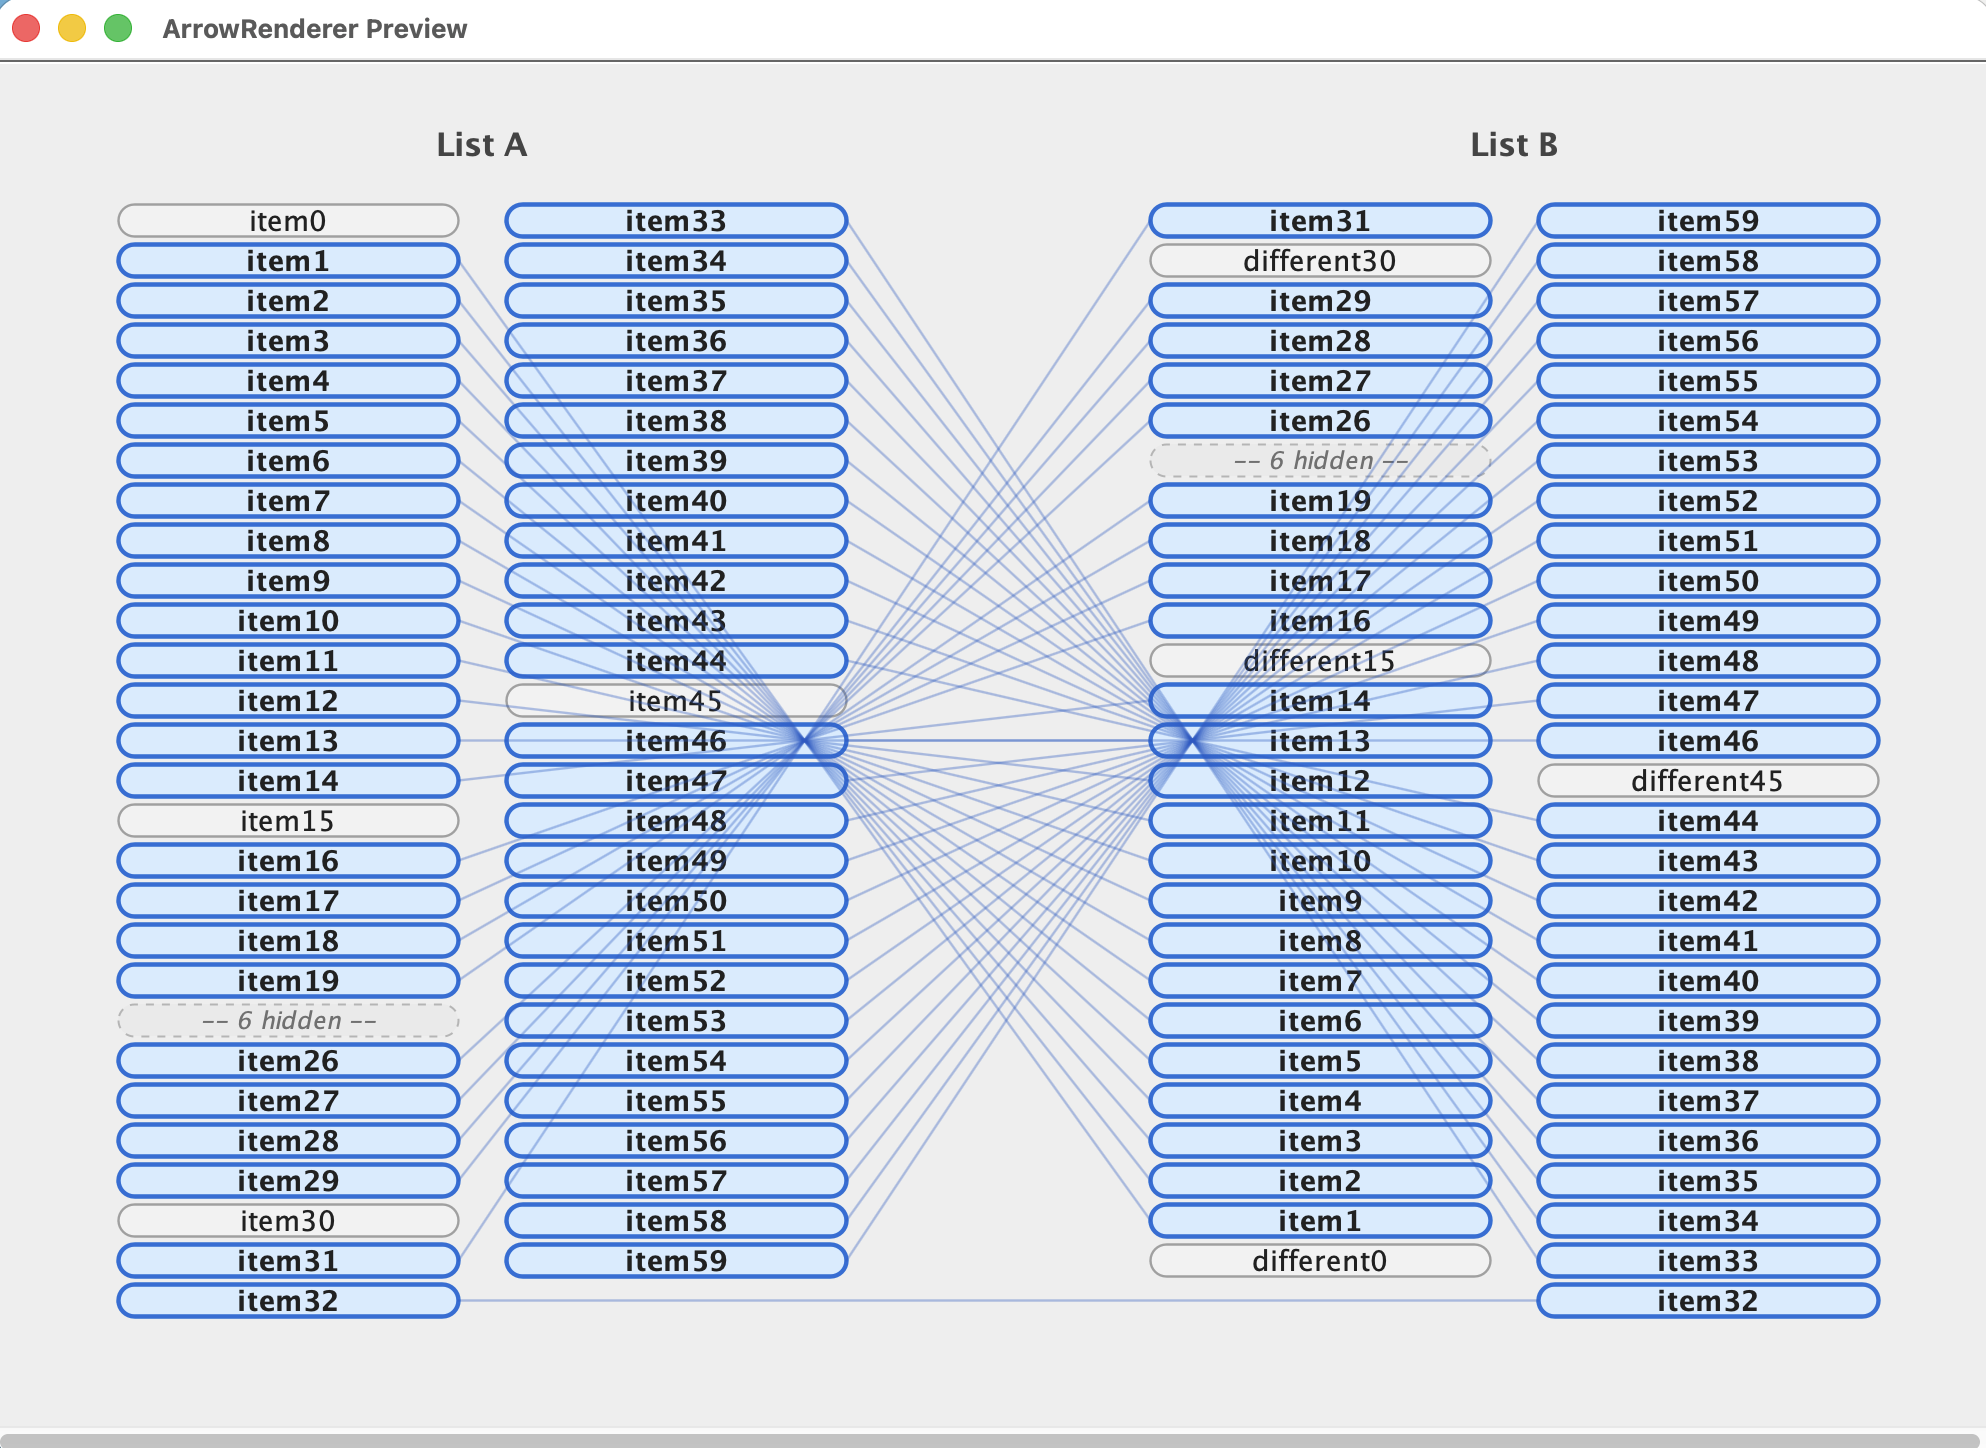
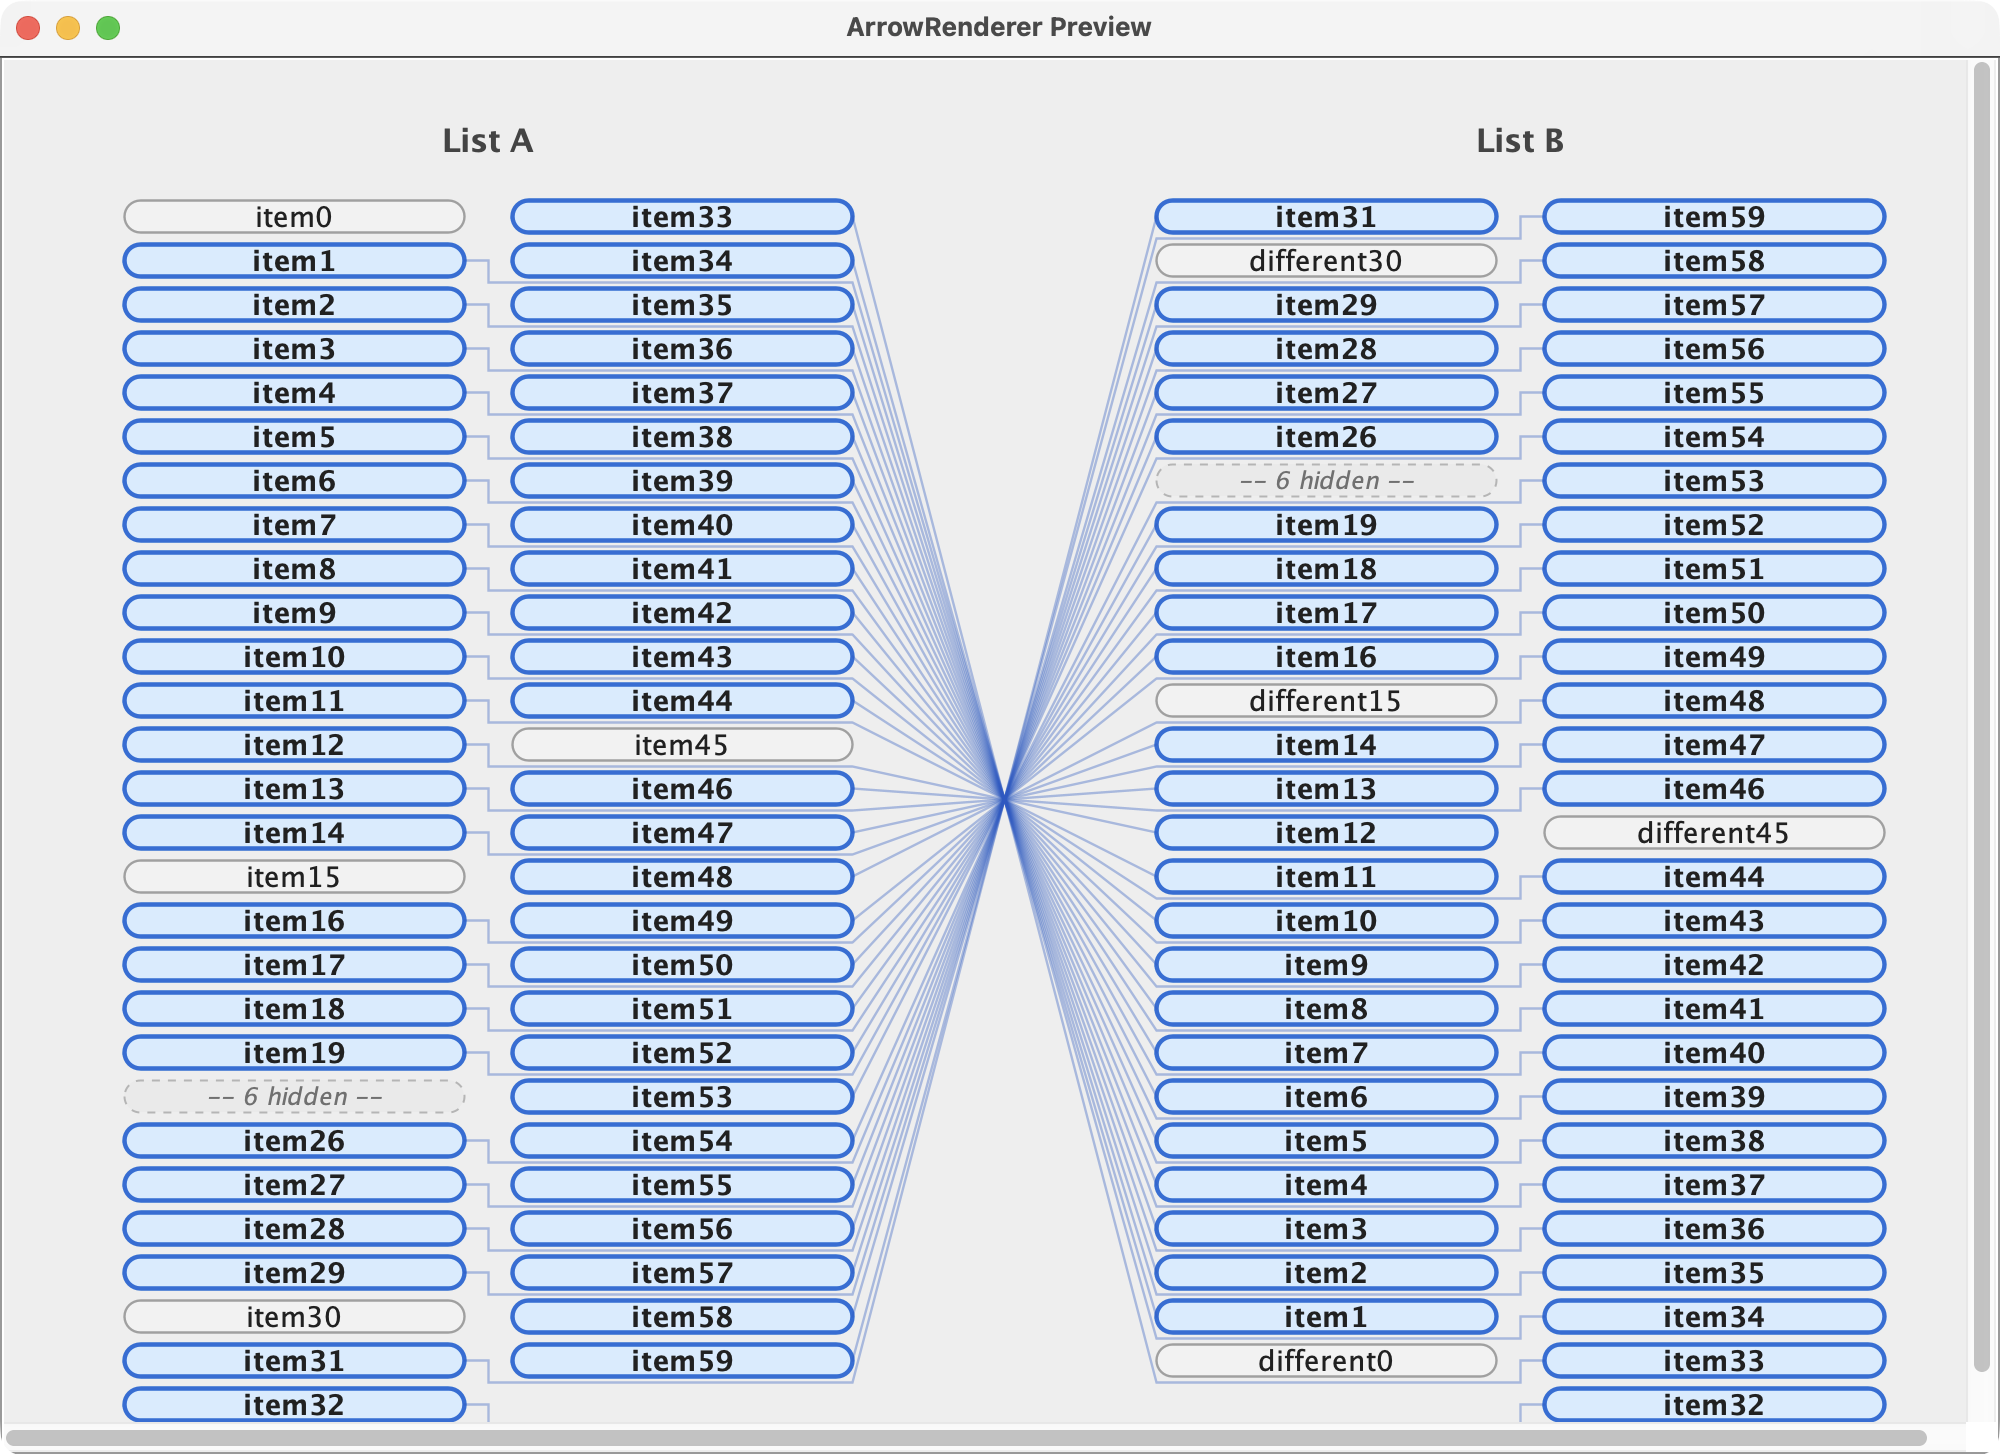
Update README screenshots for routed match arrows
Retake the three multi-column screenshots so they show arrows routed
between rows instead of drawn over the inner columns:
- arrow_renderer_basic.png: ArrowRendererPreview's default 60-item case.
- arrow_renderer_large.png: the ~900-item preview case.
- main_app_large_scroll.png: the real app with the 1000-item list
  (500 non-matching, 400 matching, 100 non-matching).

main_app_basic.png and main_app_input_dialog.png are unaffected (single
column per side / no arrows) and are left as-is. Also note the routing
in the ArrowRenderer section.

diff --git a/README.md b/README.md
@@ -131,7 +131,9 @@ in action together.
 Draws connecting lines between matched boxes using the anchor points
 `BoxRenderer` exposes on each box. Uses a thin, semi-transparent stroke
 so large numbers of overlapping arrows stay readable instead of turning
-into a solid block of color.
+into a solid block of color. In multi-column layouts, arrows from outer
+columns are routed through the gaps between rows (one lane per column)
+rather than drawn straight across, so they never pass over other boxes.
 
 Arrows connecting matched boxes on a small/medium list:
 
